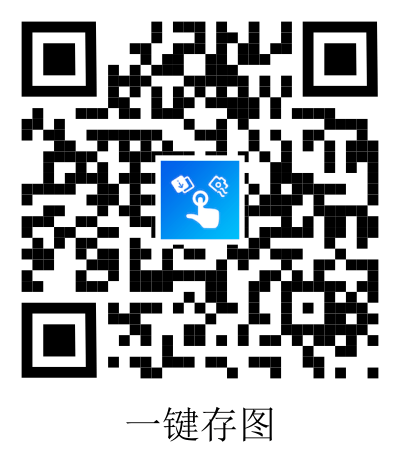
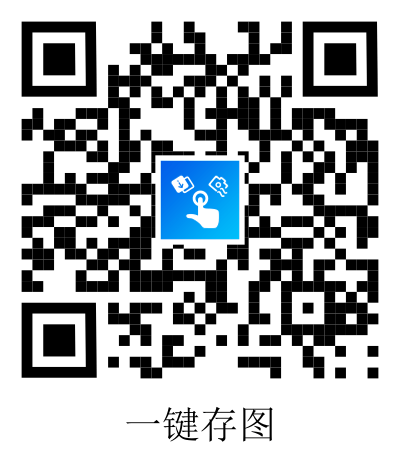
111

diff --git a/onesave.html b/onesave.html
@@ -17,7 +17,7 @@
                 <img id="qrcodeimg" src="img/onekeysave/qrcode.png"/>
                 
                 <ul id="list" style="list-style: none;">
-                    <a href="https://github.com/superjasonye/productapk/raw/main/app-release.apk" download>下载app</a>
+                    <a href="https://oss.jzx.com/qrcode/file/2023/04/13/982576437c5831ab951681376643.apk" download>下载app</a>
                     <li><a href="mailto:277969764@qq.com">联系我们</a></li>
                     <li><a href="onesave_privacy.html" target="_self">隐私政策</a></li>
                     <li><a href="onesave_user.html" target="_self">用户协议</a></li>
